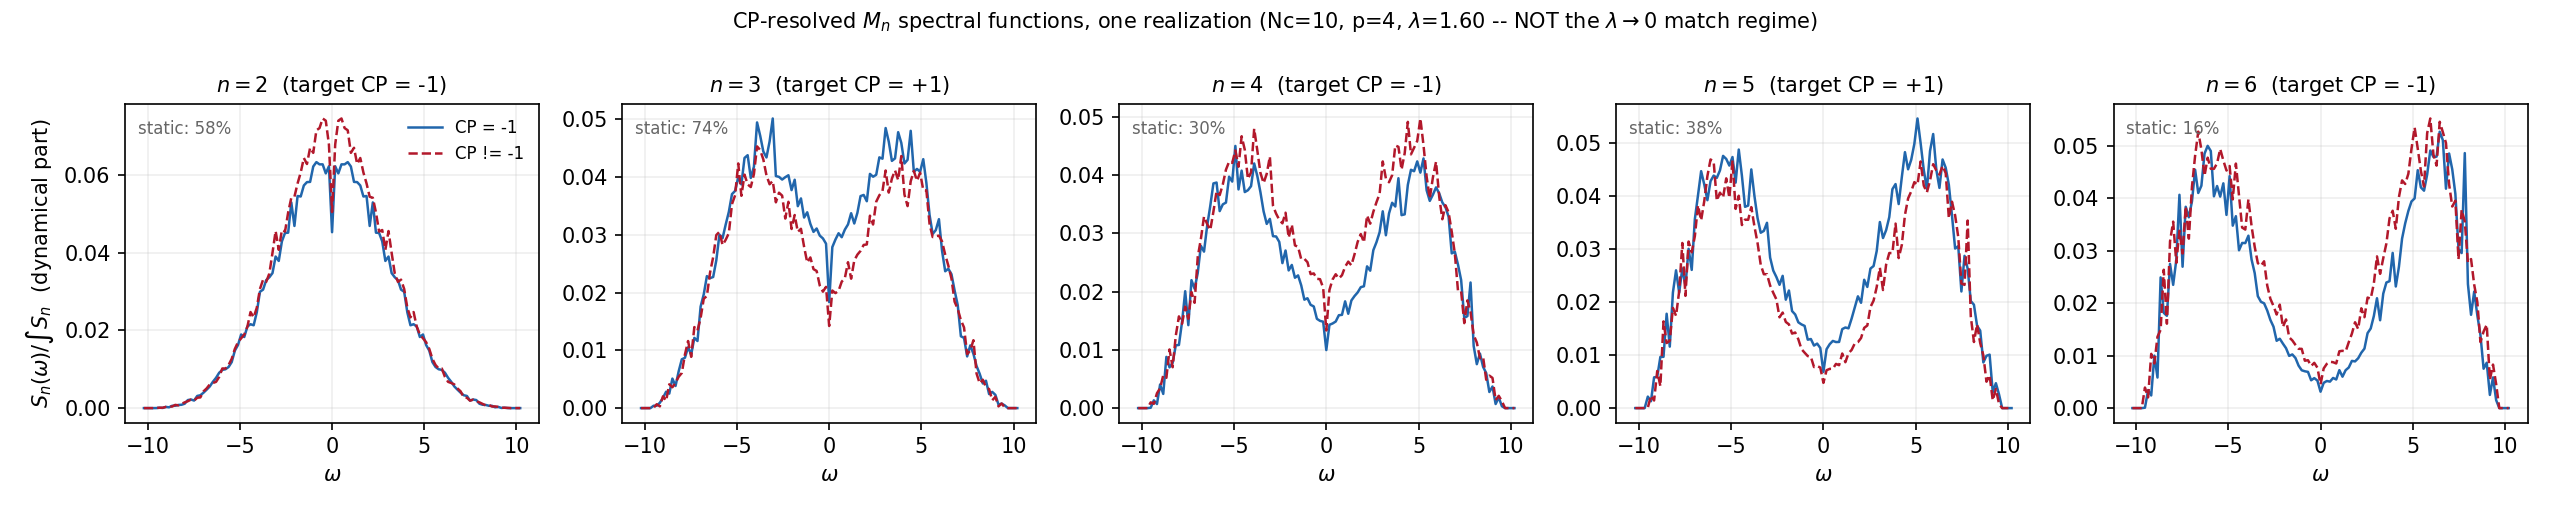
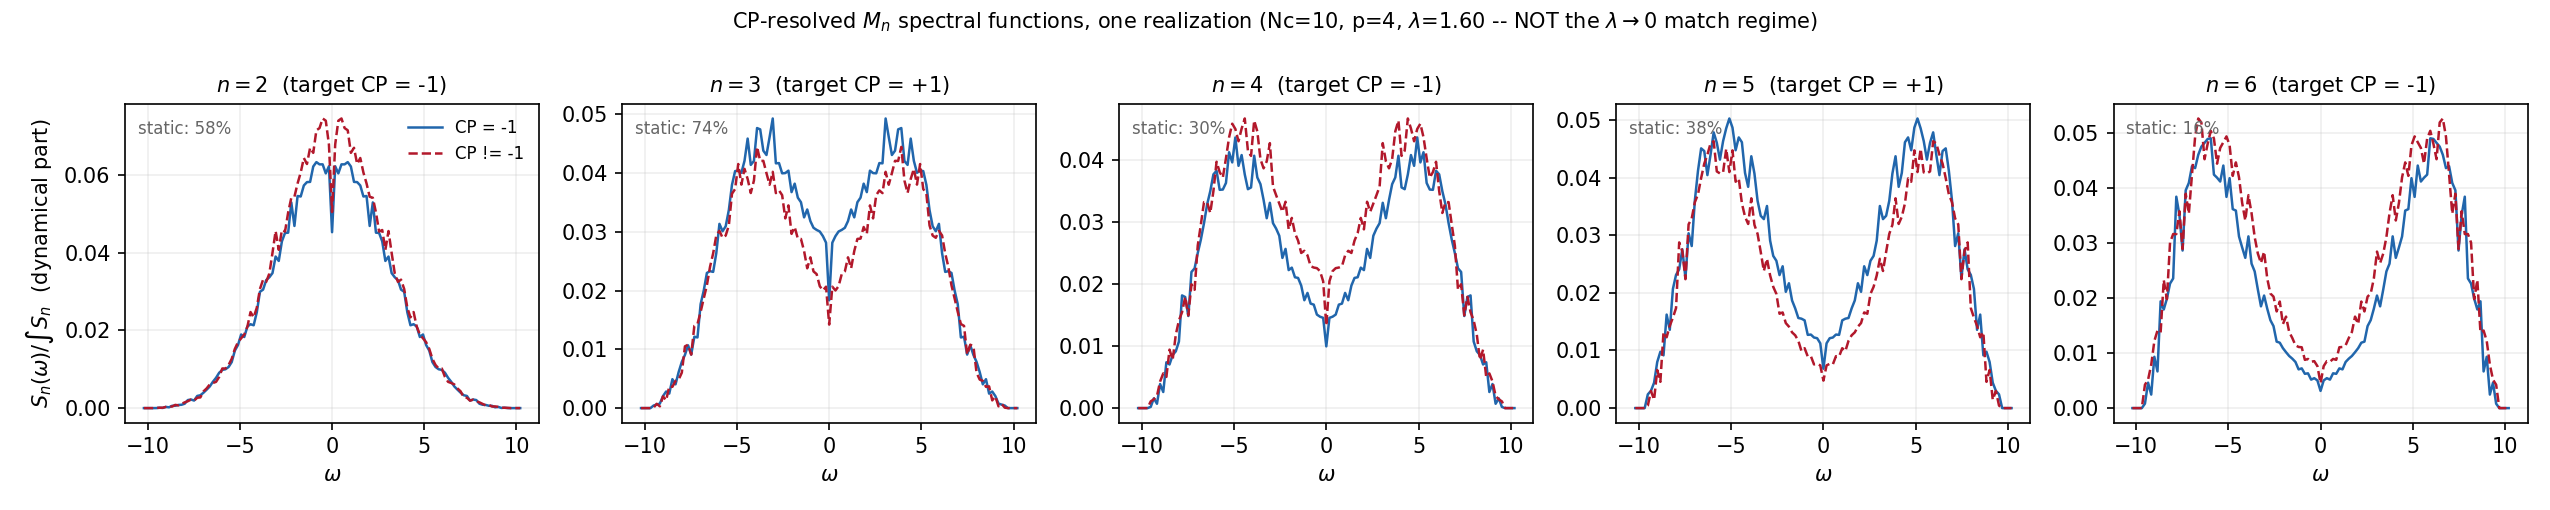
Rung 12 audit results + symmetrized spectral correlators (n>=3 Hermiticity fix)
Rung 12 (via web audit of both companion sources, equation-level):
- The systematic derivation behind 2607.05678 Sec. 3.5 is published NOWHERE:
  2501.09423 never discusses self-averaging; its counting rule (4.26) is
  magnitude-only, part-empirical (their own Sec. 6.2), and its n << p
  approximation fails precisely in the diagram-B regime (error ~ e^p in double
  scaling). exact_wick.py is the only complete, prefactor-exact derivation in
  existence and confirms both papers at leading order (their diagram-B =
  sigma^4 C(N,p); the exact result adds the pinning factor 4p(N-p)/N(N-1)).
- The lambda factor-2 clash is internal to the Susskind corpus itself:
  2501.09423 Eq. (3.6) defines lambda = 2p^2/N (chord convention) vs
  2607.05678's p^2/N. Recorded in duality/dictionary.py.
- 2511.10907's entropy correction (T_c = Lambda sqrt(N), stretched horizon at
  Planck not string depth) leaves Sec. 5's Holographic Tuning untouched and is
  already incorporated by 2607.05678; 2501.09423 Sec. 6.1-6.2 is superseded;
  rungs 19/21 must use T_c = Lambda sqrt(N).

Hermiticity fix (caught by the pipeline's own odd-moment test): for n >= 3 the
raw Tr(M_n(t) M_n^dag) correlator is genuinely omega-asymmetric because M_n is
not +-Hermitian; at T_B = inf the exact relation is S_AA^dag(w) = S_A^dag A(-w).
moments_pipeline and mn_spectroscopy now use the symmetrized (Hermitian-part +
anti-Hermitian-part) spectral function, whose odd moments vanish identically
[…]

diff --git a/syk-self-averaging/moments_pipeline.py b/syk-self-averaging/moments_pipeline.py
@@ -26,8 +26,14 @@ robust to that unresolved map, so this pipeline publishes exactly those, with
 statistics, ready for the exact chord/Wick N = infinity computation (rung 15
 proper) to be checked against.
 
-Odd moments vanish identically at T_B = infinity (the trace correlator is
-omega-symmetric; asserted in the tests).
+Hermiticity subtlety (caught by this module's own test): for n >= 3 the raw
+M_n is NOT +-Hermitian (dirac.py), so the ordered correlator Tr(M_n(t)M_n^dag)
+has genuinely nonvanishing odd-in-omega parts -- at T_B = infinity the exact
+relation is S_{AA^dag}(omega) = S_{A^dag A}(-omega), symmetric only for the
+combined object.  We therefore use the SYMMETRIZED spectral function, i.e.
+split each CP-projected operator into Hermitian + anti-Hermitian parts and add
+their (individually omega-symmetric) weights; odd moments then vanish
+identically (asserted in the tests).
 """
 
 from __future__ import annotations
@@ -66,7 +72,13 @@ def instance_moments(Nc: int, p: int, seed: int, n_list=(2, 3), n_max=None):
         chans = {"right": Mp if cp_target == +1 else Mm,
                  "wrong": Mm if cp_target == +1 else Mp}
         for tag, op in chans.items():
-            W = np.abs(V.conj().T @ op @ V) ** 2 / dim
+            # symmetrized spectral weight: Hermitian + anti-Hermitian parts
+            # separately (each omega-symmetric); see module docstring
+            op_h = 0.5 * (op + op.conj().T)
+            op_a = 0.5 * (op - op.conj().T)
+            Wt_h = V.conj().T @ op_h @ V
+            Wt_a = V.conj().T @ op_a @ V
+            W = (np.abs(Wt_h) ** 2 + np.abs(Wt_a) ** 2) / dim
             mu = {k: float(np.sum(W * omega ** k)) for k in (0, 1, 2, 4)}
             out[(n, tag)] = dict(mu0=mu[0], mu1=mu[1], mu2=mu[2], mu4=mu[4],
                                  escale=escale)

diff --git a/duality/dictionary.py b/duality/dictionary.py
@@ -21,9 +21,12 @@ The four load-bearing corrections (top-level README), as code:
   4. Conventions:       the PAPER's lambda is p^2/N; the CHORD literature
                         (Berkooz et al., the machinery any DSSYK solve will
                         use) defines lambda_chord = 2p^2/N and q =
-                        exp(-lambda_chord).  A silent factor of 2 here would
-                        wreck any quantitative match -- hence the explicit
-                        converters.
+                        exp(-lambda_chord).  The clash is INTERNAL to the
+                        Susskind corpus too: the companion arXiv:2501.09423
+                        Eq. (3.6) defines lambda = 2p^2/N (chord convention)
+                        while 2607.05678 Sec. 4.1 uses p^2/N.  A silent
+                        factor of 2 here would wreck any quantitative match
+                        -- hence the explicit converters.
 
 Mass units.  thooft-target reports the dimensionless eigenvalue
 2*lambda_n = M_n^2/(pi g^2) at the duality point alpha = pi m_q^2/g^2 = 0.

diff --git a/syk-self-averaging/mn_spectroscopy.py b/syk-self-averaging/mn_spectroscopy.py
@@ -54,10 +54,17 @@ from dirac import (draw_couplings, dirac_hamiltonian, annihilators,
 
 
 def spectral_weights(M: np.ndarray, V: np.ndarray, omega: np.ndarray):
-    """All (omega_ab, |<a|M|b>|^2/dim) pairs for one operator, given the
-    precomputed omega_ab = E_a - E_b grid."""
-    Mt = V.conj().T @ M @ V
-    W = np.abs(Mt) ** 2 / M.shape[0]
+    """All (omega_ab, weight) pairs for one operator, given the precomputed
+    omega_ab = E_a - E_b grid.  SYMMETRIZED: the Hermitian and anti-Hermitian
+    parts contribute separately (each omega-symmetric).  For n >= 3 the raw
+    M_n is not +-Hermitian, so the ordered correlator Tr(M(t)M^dag) has
+    odd-in-omega parts; at T_B = inf the exact relation is
+    S_{AA^dag}(w) = S_{A^dag A}(-w), and the symmetrized object is the
+    convention-stable one (see moments_pipeline.py)."""
+    Mh = 0.5 * (M + M.conj().T)
+    Ma = 0.5 * (M - M.conj().T)
+    W = (np.abs(V.conj().T @ Mh @ V) ** 2
+         + np.abs(V.conj().T @ Ma @ V) ** 2) / M.shape[0]
     return omega.ravel(), W.ravel()
 
 

diff --git a/road_map.md b/road_map.md
@@ -156,8 +156,34 @@ independent; the tiers gate the ones that aren't.
 - ✅ **14** (first version): `mn_spectroscopy.py` — first CP-resolved Mₙ spectral
   functions (single realization, λ=1.6): conserved n=0,1 machine-exact at ω=0;
   broad continua for n≥2. Deliberately *not* the λ→0 match.
-- ⬜ Open: **13** (boost-to-mass dictionary — the gating prerequisite), 12, 15,
-  17–24.
+- ✅ **12** (audited 2026-07-20): the "systematic derivation" behind §3.5 is
+  published **nowhere** — 2501.09423 never mentions self-averaging, its counting
+  rule (Eq. 4.26) is magnitude-only, part-empirical (their §6.2), and its n≪p
+  approximation fails exactly in the diagram-B regime (error ~e^p; harmless for
+  the bound, fatal for prefactors). `exact_wick.py` is the only complete
+  prefactor-exact derivation in existence; it *confirms* both papers at leading
+  order (their diagram-B = σ⁴C(N,p); ours adds the exact pinning factor
+  4p(N−p)/N(N−1)) — a small publishable note. Also: the λ factor-2 clash is
+  internal to the Susskind corpus (2501.09423 Eq. 3.6: λ=2p²/N). And
+  2511.10907's entropy correction (T_c = Λ√N per McLerran–Sen; stretched
+  horizon at Planck, not string, depth) leaves §5's Holographic Tuning
+  untouched — 2607.05678 already cites and incorporates it; but 2501.09423
+  §6.1–6.2 is superseded, and rungs 19/21 must use T_c = Λ√N.
+- ✅ **13** (calibration level): `duality/boost_mass.py` + `BOOST.md` — exact
+  boost spectral function of one mass, S = (1/πa)e^(πω/a)K_{iω/a}(m/a)²,
+  verified to 1e-12 by an independent route. One discrete mass ⇒ a *continuum*
+  with mass-encoding *nodes* (peak-hunting is the wrong observable); heavy
+  states Boltzmann-faint; the ω-symmetric T_B=∞ hologram vs KMS-asymmetric
+  bulk response is the precisely-stated open map (tomperature). Rung 18's
+  "discrete vs continuum" question reformulated accordingly.
+- ✅ **15** (groundwork): `moments_pipeline.py` — disorder-averaged CP-resolved
+  spectral-moment shape invariants (w₂, kurtosis) with errors along fixed
+  p = 4, Nc = 6→10; the map-robust targets for the exact N=∞ chord/Wick
+  computation. (Also fixed en route: for n ≥ 3, Tr(M(t)M†) is genuinely
+  ω-asymmetric since M_n is not ±Hermitian — the symmetrized correlator is the
+  convention-stable object.)
+- ⬜ Open: 15 proper (exact N=∞ moments), 16 remainder, 17–24; sharpest next:
+  the tomperature map (13's remainder, gating 18), then 17→18.
 
 ### Tier 0 — Hygiene (hours; do immediately)
 

diff --git a/duality/BOOST.md b/duality/BOOST.md
@@ -26,13 +26,15 @@ $$S(\omega) \;=\; \frac{1}{\pi a}\, e^{\pi\omega/a}\, K_{i\omega/a}(m/a)^2 .$$
    exponentially Boltzmann-suppressed. Any finite-precision spectroscopy sees only the
    first few masses.
 4. **A sharp open tension.** The bulk response is KMS-asymmetric at the Unruh
-   temperature ($S(\omega)=e^{2\pi\omega/a}S(-\omega)$, exact above), but the
-   $T_B=\infty$ hologram correlator $\mathrm{Tr}(M(t)M)/\dim$ is exactly
-   $\omega$-**symmetric** (measured). Matching them requires a nontrivial
-   state/frequency map — the "tomperature" identification (Rahman–Susskind
-   2401.08555). Until that map is fixed, comparing DSSYK spectral shapes with bulk
-   masses is convention-ambiguous. **This is the gating question of rung 13/18**, now
-   stated precisely.
+   temperature ($S(\omega)=e^{2\pi\omega/a}S(-\omega)$, exact above). At
+   $T_B=\infty$ the hologram obeys $S_{AA^\dagger}(\omega)=S_{A^\dagger A}(-\omega)$
+   — the KMS factor degenerates to 1, and the symmetrized correlator (the
+   convention-stable object used in `mn_spectroscopy`/`moments_pipeline`) is exactly
+   $\omega$-symmetric. An asymmetric Unruh response can only emerge through a
+   nontrivial state/frequency map — the "tomperature" identification
+   (Rahman–Susskind 2401.08555). Until that map is fixed, comparing DSSYK spectral
+   shapes with bulk masses is convention-ambiguous. **This is the gating question of
+   rung 13/18**, now stated precisely.
 
 ## Implication for the headline test (rung 18)
 
